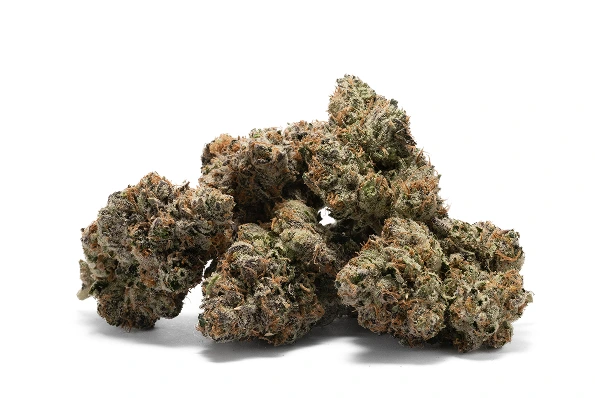
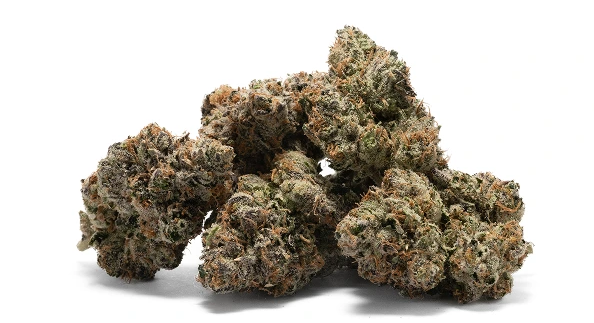
Update Research and Development page layout and styling for improved readability. Adjust margins and padding for better visual consistency. Replace image with updated WebP format for enhanced performance.

diff --git a/src/app/research-and-development/page.tsx b/src/app/research-and-development/page.tsx
@@ -27,9 +27,9 @@ export default function Page() {
           sizes="100vw"
         />
 
-        <div className="absolute bottom-0 left-0 w-full py-6 tablet:py-8">
+        <div className="absolute bottom-0 left-0 w-full pt-6 tablet:pt-8">
           <div className="mx-auto w-full px-6 tablet:px-8 pt-16 tablet:pt-0">
-            <h1 className="text-5xl tablet:text-7xl font-bold text-black w-fit leading-tight">
+            <h1 className="text-5xl tablet:text-7xl font-bold text-black w-fit leading-tight mx-[20px] tablet:mx-0">
               Research
               <br />
               &amp; Development
@@ -49,10 +49,10 @@ export default function Page() {
               "opacity-100 translate-x-0",
             )}
           >
-            <div className="mx-auto w-full px-6 tablet:px-8 py-10 tablet:py-14 flex flex-col tablet:flex-row gap-6 tablet:gap-8 items-center">
+            <div className="mx-auto w-full px-6 tablet:px-8 py-10 tablet:pt-[64px] tablet:pb-14 flex flex-col tablet:flex-row gap-6 tablet:gap-8">
               {/* Text */}
               <div className="tablet:col-span-7 w-full max-w-[733px]">
-                <h2 className="text-[40px] tablet:text-[52px] font-bold leading-tight text-black">
+                <h2 className="text-[40px] tablet:text-[52px] font-bold leading-tight text-black mx-[20px] tablet:mx-0">
                   <span className="bg-crystalGreen px-1">
                     Science-Driven Innovation
                   </span>
@@ -60,7 +60,7 @@ export default function Page() {
                   <span>for Tomorrow&#39;s Therapeutics</span>
                 </h2>
 
-                <p className="mt-6 font-medium leading-[125%]">
+                <p className="mt-6 font-medium leading-[125%] mx-[20px] tablet:mx-0">
                   At Cannex, research is not a department — it&#39;s the
                   foundation of everything we do. We believe that advancing the
                   future of medical cannabis starts with asking the right
@@ -68,7 +68,7 @@ export default function Page() {
                   the same scientific rigor demanded of pharmaceutical products.
                 </p>
 
-                <p className="mt-4 font-medium leading-[125%]">
+                <p className="mt-4 font-medium leading-[125%] mx-[20px] tablet:mx-0">
                   Our R&amp;D ecosystem bridges cutting-edge science from Japan,
                   clinical collaboration in Thailand, and product innovation
                   that meets the regulatory standards of the world&#39;s most
